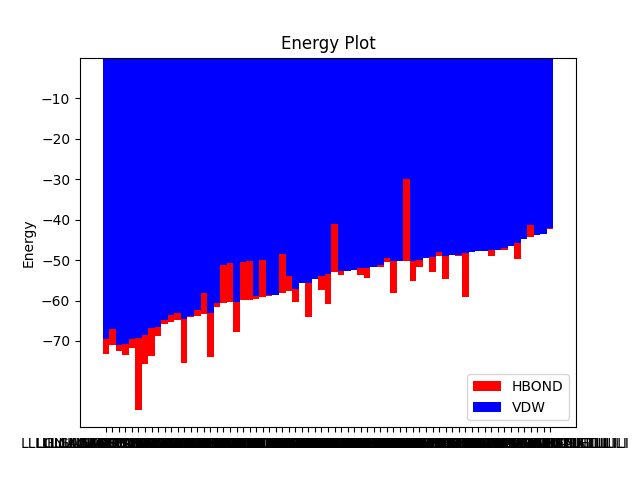
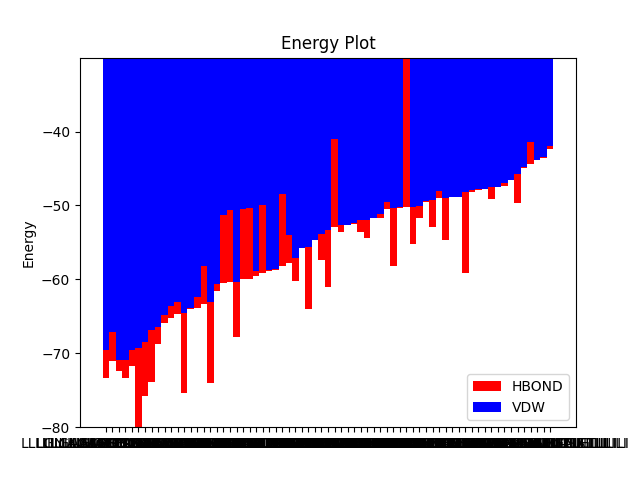
updated graphs

diff --git a/design2AnalysisScripts/code/testAnalysis.py b/design2AnalysisScripts/code/testAnalysis.py
@@ -42,7 +42,7 @@ if df_data['VDWDiff'].sum() == 0:
 # only keep sequences where Total Energy is less than 0
 df_total = df_data[df_data['Total'] < -5]
 
-#df_total = df_total[df_total['PercentGpa'] < 50]
+df_total = df_total[df_total['PercentGpa'] > 50]
 df_total = df_total.sort_values(by='VDWDiff')
 # only keep sequences where VDWDiff is greater than 0
 df_vdwDiff = df_total[df_total['VDWDiff'] < 0]
@@ -71,7 +71,7 @@ for df,filename in zip(df_list, filename_list):
 #plotGeomKde(df_kde, df_total, 'PercentGpa')
 
 # output updated df_data to csv
-df_data.to_csv(os.getcwd()+"/test.csv", index=False)
+#df_data.to_csv(os.getcwd()+"/test.csv", index=False)
 
 # TODO: only overlay unique geometries
 # TODO: compare the geometries to the sequences I got before; to the sequences that worked plot

diff --git a/design2AnalysisScripts/code/functions.py b/design2AnalysisScripts/code/functions.py
@@ -63,7 +63,8 @@ def plotEnergyDiffStackedBarGraph(df, filename):
     plt.ylabel('Energy')
     plt.title('Energy Plot')
     plt.xticks(x, df['Sequence'])
-    plt.yticks(np.arange(-70, 0, 10))
+    plt.ylim(-80,-30)
+    plt.yticks(np.arange(-80, -30, 10))
     plt.legend((p2[0], p1[0]), ('HBOND', 'VDW'))
     #plt.show()
     # save plot
